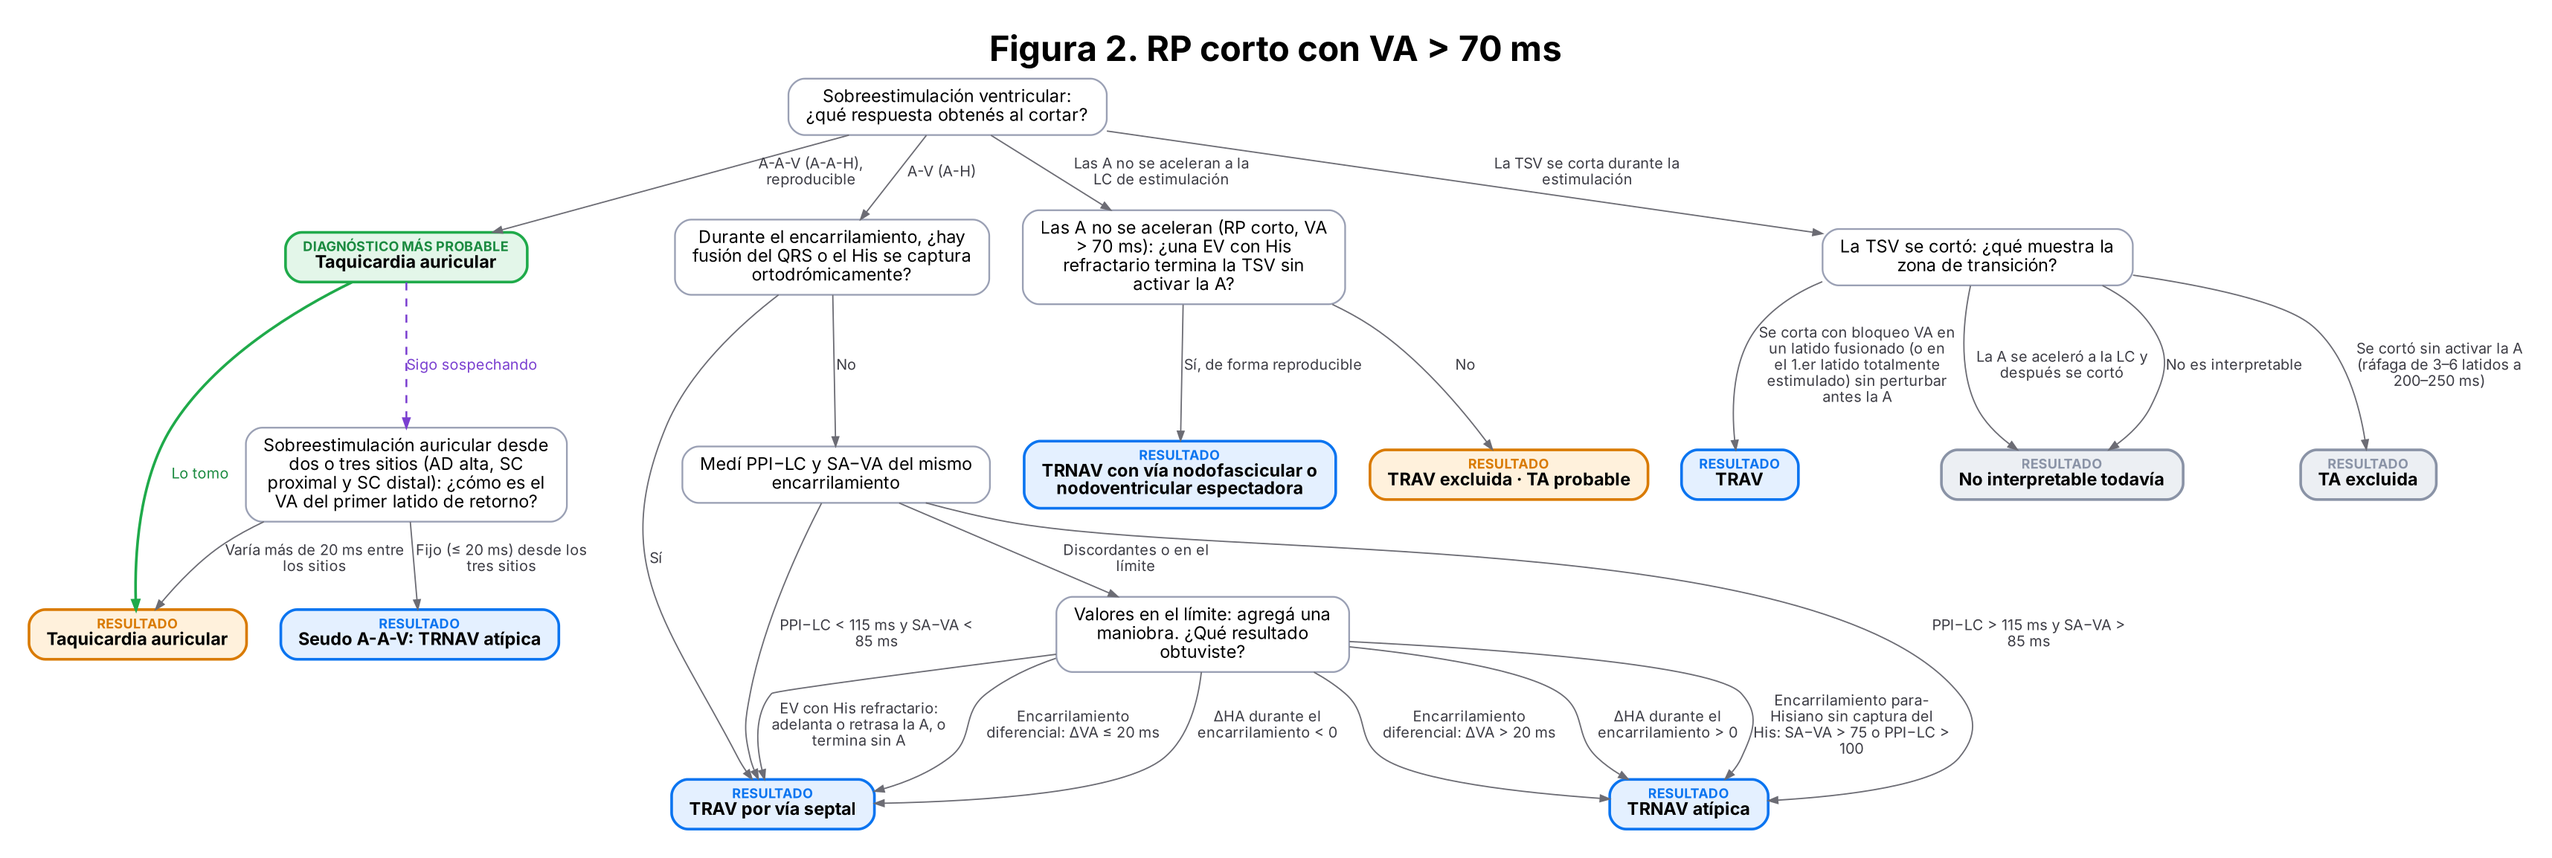
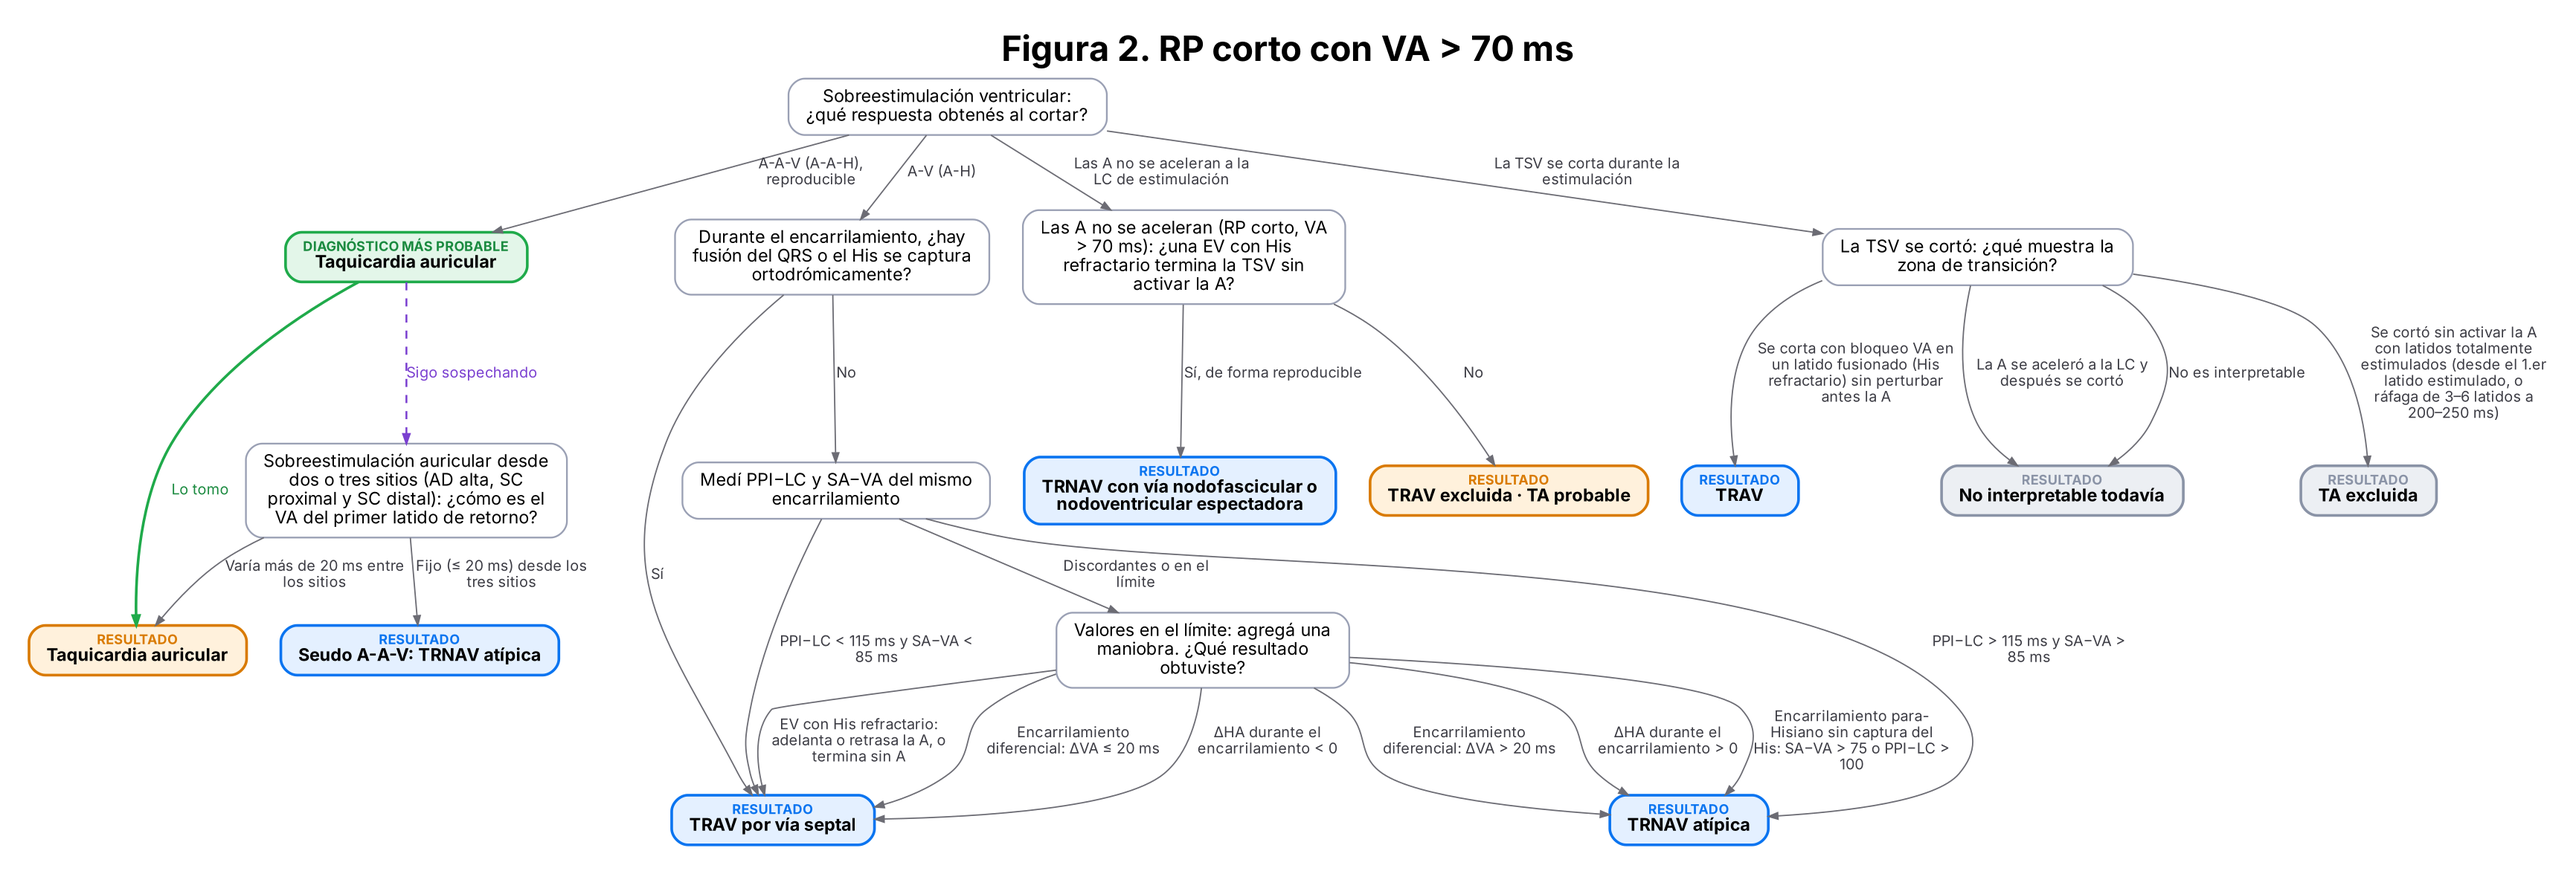
Algoritmo: en el corte con sobreestimulación ventricular, solo el latido fusionado prueba una vía; el 1.er latido totalmente estimulado excluye la TA pero no separa TRAV de TRNAV
Claude-Session: https://claude.ai/code/session_01Pw5rjpB73FvTjTKweDSans

diff --git a/index.html b/index.html
@@ -405,7 +405,7 @@ dialog::backdrop{background:rgba(0,0,0,.45)}
 <div id="visor" hidden role="dialog" aria-label="Imagen ampliada"><div class="vbar"><button type="button" class="vm" aria-label="Achicar">−</button><button type="button" class="vp" aria-label="Agrandar">+</button><button type="button" class="vf">Ajustar</button><button type="button" class="vx">✕ Cerrar</button></div><div class="vbox"><img alt="Imagen ampliada"></div></div>
 <script src="anim-index.js"></script>
 <script>
-const APPV = 237;   // igual al número de CACHE_VERSION de sw.js
+const APPV = 238;   // igual al número de CACHE_VERSION de sw.js
 try { document.getElementById('verPie').textContent = 'versión ' + APPV; } catch (e) {}
 // ===============================================================================================================
 // Referencias. "propia" = artículo del material base; las demás se citan a través de esas revisiones.
@@ -2120,9 +2120,9 @@ const N = {
 
   // ---------- se corta durante la estimulación ventricular
   term: { q: 'La TSV se cortó: ¿qué muestra la zona de transición?', help: 'Revisá latido a latido desde la primera espiga. El latido fusionado es, por definición, His refractario.', man: ['vop', 'ehr'], opts: [
-    { t: 'Se corta con bloqueo VA en un latido fusionado (o en el 1.er latido totalmente estimulado) sin perturbar antes la A', go: 'L_avrt_gen' },
+    { t: 'Se corta con bloqueo VA en un latido fusionado (His refractario) sin perturbar antes la A', go: 'L_avrt_gen' },
     { t: 'La A se aceleró a la LC y después se cortó', s: 'Sirve para el encarrilamiento diferencial: el ΔVA es calculable', go: 'L_term_retry' },
-    { t: 'Se cortó sin activar la A (ráfaga de 3–6 latidos a 200–250 ms)', go: 'L_notat' },
+    { t: 'Se cortó sin activar la A con latidos totalmente estimulados (desde el 1.er latido estimulado, o ráfaga de 3–6 latidos a 200–250 ms)', s: 'Sin His refractario, el estímulo pudo entrar al nodo por el His o bloquearse en una vía: excluye la TA, pero no separa TRAV de TRNAV', go: 'L_notat' },
     { t: 'No es interpretable', go: 'L_term_retry' }] },
 
   // ================= RESULTADOS =================
@@ -2159,7 +2159,7 @@ const N = {
   L_avrt_s: { leaf: true, dx: 'TRAV por vía septal', why: ['Encarrilamiento con fusión, His ortodrómico, PPI−LC y SA−VA cortos, o una EV-HR positiva.'], next: ['Mapeo de la A más precoz durante la TSV o la estimulación ventricular. Cuidado con el riesgo de BAV en las vías anteroseptales y medioseptales.'], man: ['vop', 'ppi', 'sava', 'ehr'], refs: ['michaud01', 'gt06', 'ormaetxe93', 'veen11'] },
   L_avrt_gen: { leaf: true, dx: 'TRAV', why: ['Un latido fusionado es His refractario; si después la TSV se corta con bloqueo VA, la aurícula dependía de la conducción por una vía.'], next: ['Igual conviene confirmarlo con una EV-HR y localizar la vía.'], man: ['ehr', 'vop'], refs: ['veen11', 'veen12'] },
   L_term_retry: { leaf: true, tone: 'gray', dx: 'No interpretable todavía', why: ['La estimulación ventricular invadió la refractariedad anterógrada del nodo.'], next: ['Isoproterenol para acortar la refractariedad nodal y repetir.', 'Si la A se aceleró antes del corte, igual calculá el ΔVA del encarrilamiento diferencial.', 'Ráfagas de 3–6 latidos a 200–250 ms: en ~60 % disocian (excluye TRAV) o cortan sin A (excluye TA).', 'EV con His refractario.'], man: ['vop', 'diff', 'ehr'], refs: ['veen11', 'knight00'] },
-  L_notat: { leaf: true, tone: 'gray', dx: 'TA excluida', why: ['La TSV terminó sin activar la aurícula.'], next: ['Seguí con EV-HR, para-Hisiana o encarrilamiento diferencial para separar TRAV de TRNAV.'], man: ['ehr', 'parahis', 'diff'], refs: ['knight00'] },
+  L_notat: { leaf: true, tone: 'gray', dx: 'TA excluida', why: ['La TSV terminó sin activar la aurícula: un foco auricular no depende del ventrículo y habría seguido.', 'Sin His refractario, el corte no prueba una vía: lo hacen igual una TRAV, una TRNAV o una vía nodofascicular.'], next: ['Seguí con EV-HR, para-Hisiana o encarrilamiento diferencial para separar TRAV de TRNAV.'], man: ['ehr', 'parahis', 'diff'], refs: ['knight00'] },
   L_avnrt_a: { leaf: true, dx: 'TRNAV atípica', why: ['PPI−LC, SA−VA, ΔHA o el encarrilamiento diferencial indican que el VD está lejos del circuito y que A y V se activan en paralelo.'], next: ['Antes de ablacionar en un RP largo, asegurate de que una EV-HR no modifique la A: una vía decremental da valores falsamente largos.', 'Ablación de la vía lenta.'], man: ['ppi', 'sava', 'diff', 'dha'], refs: ['michaud01', 'gt11', 'segal09', 'bennett11'] },
   L_avnrt_vab: { leaf: true, dx: 'TRNAV con bloqueo VA', why: ['La EV-HR no modifica el His (descarta vía nodoventricular o nodofascicular) y la respuesta auricular indica un circuito con la vía lenta.'], next: ['Ablación de la vía lenta.'], man: ['eha', 'aop'], refs: ['veen12', 'padanilam08'] },
   L_nvbys: { leaf: true, dx: 'TRNAV atípica con vía nodofascicular o nodoventricular espectadora', why: ['La aurícula sigue a la LC de la TSV mientras el V se acelera: el ventrículo no forma parte del circuito (no es una TRAV ni una NVRT ortodrómica).', 'La EV con His refractario que la termina sin activar la A excluye la TA y exige una vía que entre al circuito nodal antes de su salida auricular.'], next: ['Ablación en la A más precoz cerca del ostium del SC o en la vía lenta: suele eliminar las dos.', 'Después, inducí de nuevo con y sin isoproterenol.'], man: ['ehr', 'vop'], refs: ['sriramoju22', 'nagashima20', 'ho15'] },

diff --git a/sw.js b/sw.js
@@ -1,6 +1,6 @@
 // Permite instalar la app y abrirla sin conexión. Primero la red (siempre lo último publicado); si no hay, la copia.
 // Si cambiás un archivo, subí CACHE_VERSION.
-const CACHE_VERSION = 'mef-v237';
+const CACHE_VERSION = 'mef-v238';
 const ARCHIVOS = ['./', './index.html', './anim.js', './anim-index.js', './manifest.json', './offline.json', './iconos/icon-192.png', './iconos/icon-512.png', './iconos/apple-touch-icon.png'];
 // 'mef-imagenes' guarda las imágenes que el usuario descargó para usar sin conexión: no se borra al actualizar.
 self.addEventListener('install', e => e.waitUntil(caches.open(CACHE_VERSION).then(c => c.addAll(ARCHIVOS)).then(() => self.skipWaiting())));

diff --git a/CLAUDE.md b/CLAUDE.md
@@ -60,7 +60,7 @@ Revisamos los flujogramas (`prototipos/flujo/`) figura por figura con el autor.
 - **Figura 0 (punto de partida): cerrada.** La secuencia "descendente" se integró a "Excéntrica". Se mantiene el corte de VA de 70 ms con la aclaración pediátrica en la ficha.
 - **Pregunta pendiente:** "Cardiopatía con posible doble nodo AV" está como opción de la secuencia auricular (es un contexto clínico): ¿se deja ahí o pasa a una pregunta previa?
 - **Ya corregido antes:** las ramas "las A no se aceleran" y "la TSV se corta" son propias de cada recorrido; después de A-A-V, la sobreestimulación auricular corta ahí (sin VA linking → TA; con VA linking → seudo A-A-V: TRNAV atípica, o PJRT con VA largo; con VA ≤ 70 → TRNAV).
-- **Figura 1 (VA ≤ 70 ms), en revisión (v236):** "se cortó sin activar la A" → TRNAV típica (`L_notat_t`); la taquicardia de la unión entró al título de `ucp_t` y a su indeterminado; en `jt2`/`jt2v`, "el último A no conduce por la vía lenta" → JET más probable (`L_jet_p`, Fan 2011). v237: en `term_t`, solo el latido fusionado (His refractario) va a vía NF/NV; el 1.er latido totalmente estimulado va a "sin activar la A" → TRNAV típica. Revisar lo mismo en `term` genérico (figuras 2–6).
+- **Figura 1 (VA ≤ 70 ms), en revisión (v236):** "se cortó sin activar la A" → TRNAV típica (`L_notat_t`); la taquicardia de la unión entró al título de `ucp_t` y a su indeterminado; en `jt2`/`jt2v`, "el último A no conduce por la vía lenta" → JET más probable (`L_jet_p`, Fan 2011). v237: en `term_t`, solo el latido fusionado (His refractario) va a vía NF/NV; el 1.er latido totalmente estimulado va a "sin activar la A" → TRNAV típica. v238: lo mismo en `term` genérico (el 1.er latido totalmente estimulado → `L_notat`: excluye TA, no separa TRAV de TRNAV).
 - **Siguiente:** cerrar la figura 1, después 2 a 6. Pendiente también: nodos gemelos con "las A no se aceleran" usa la versión del RP largo (revisar).
 
 ## Otros pendientes
